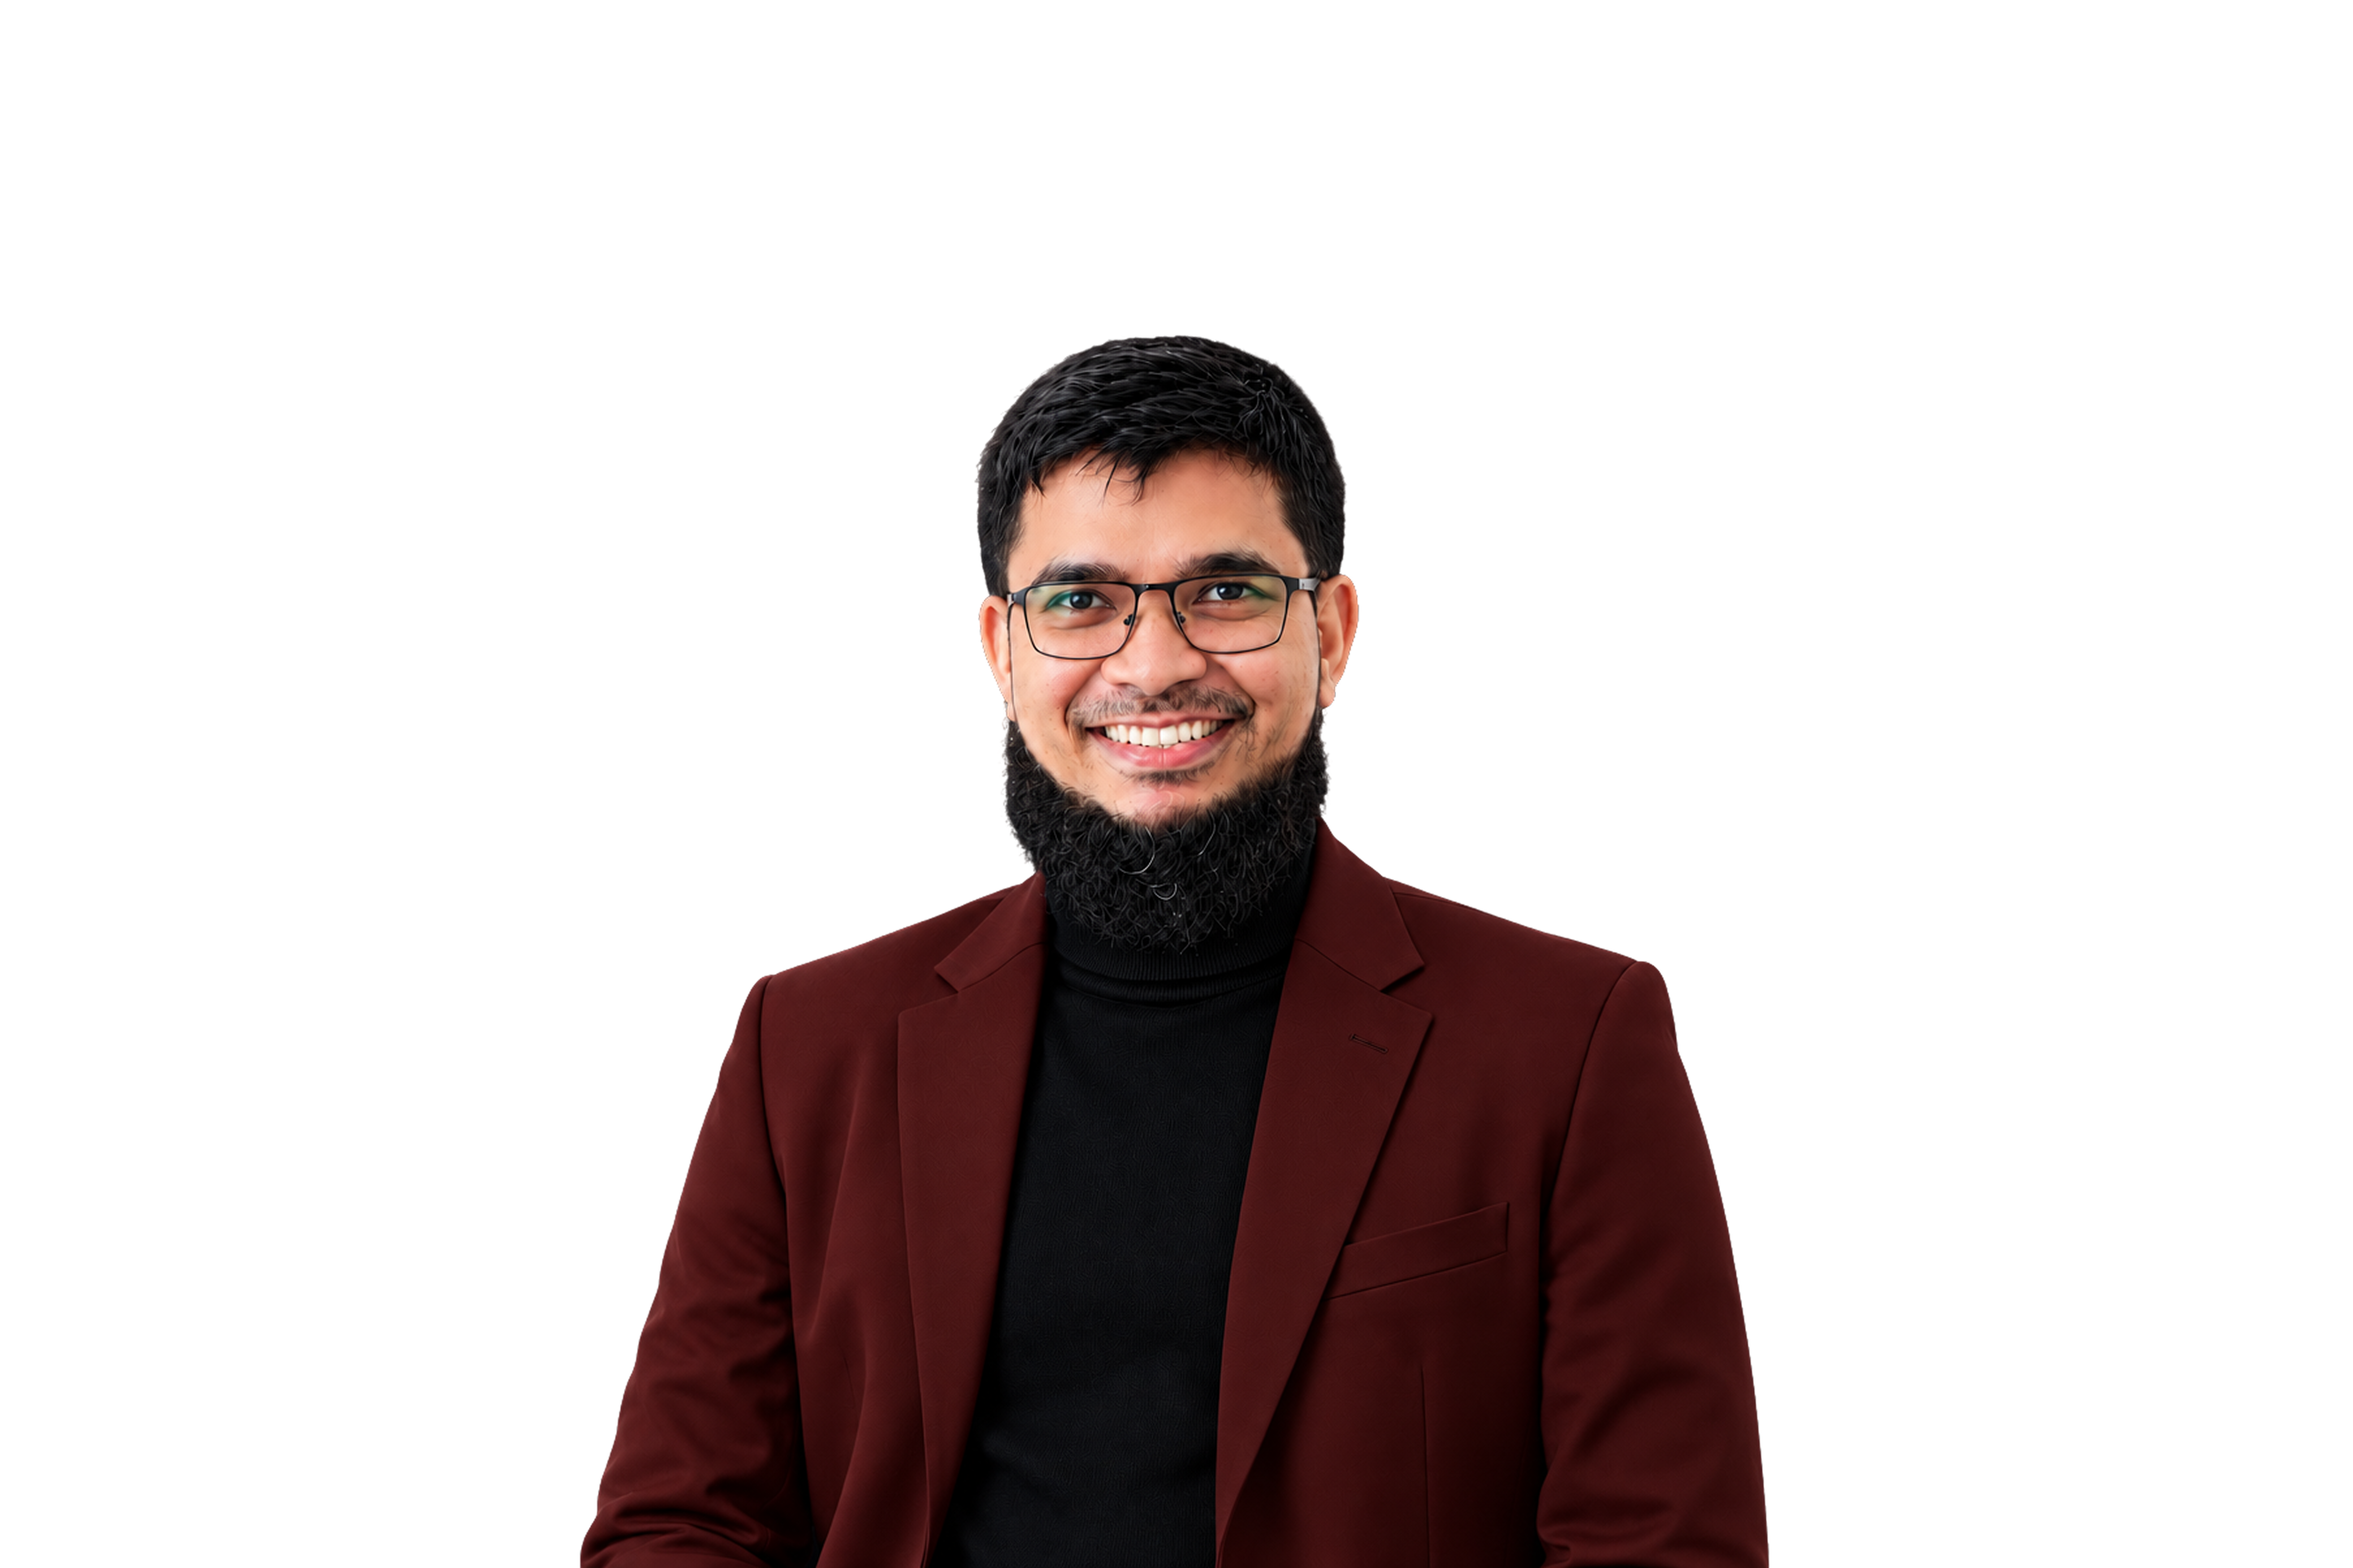
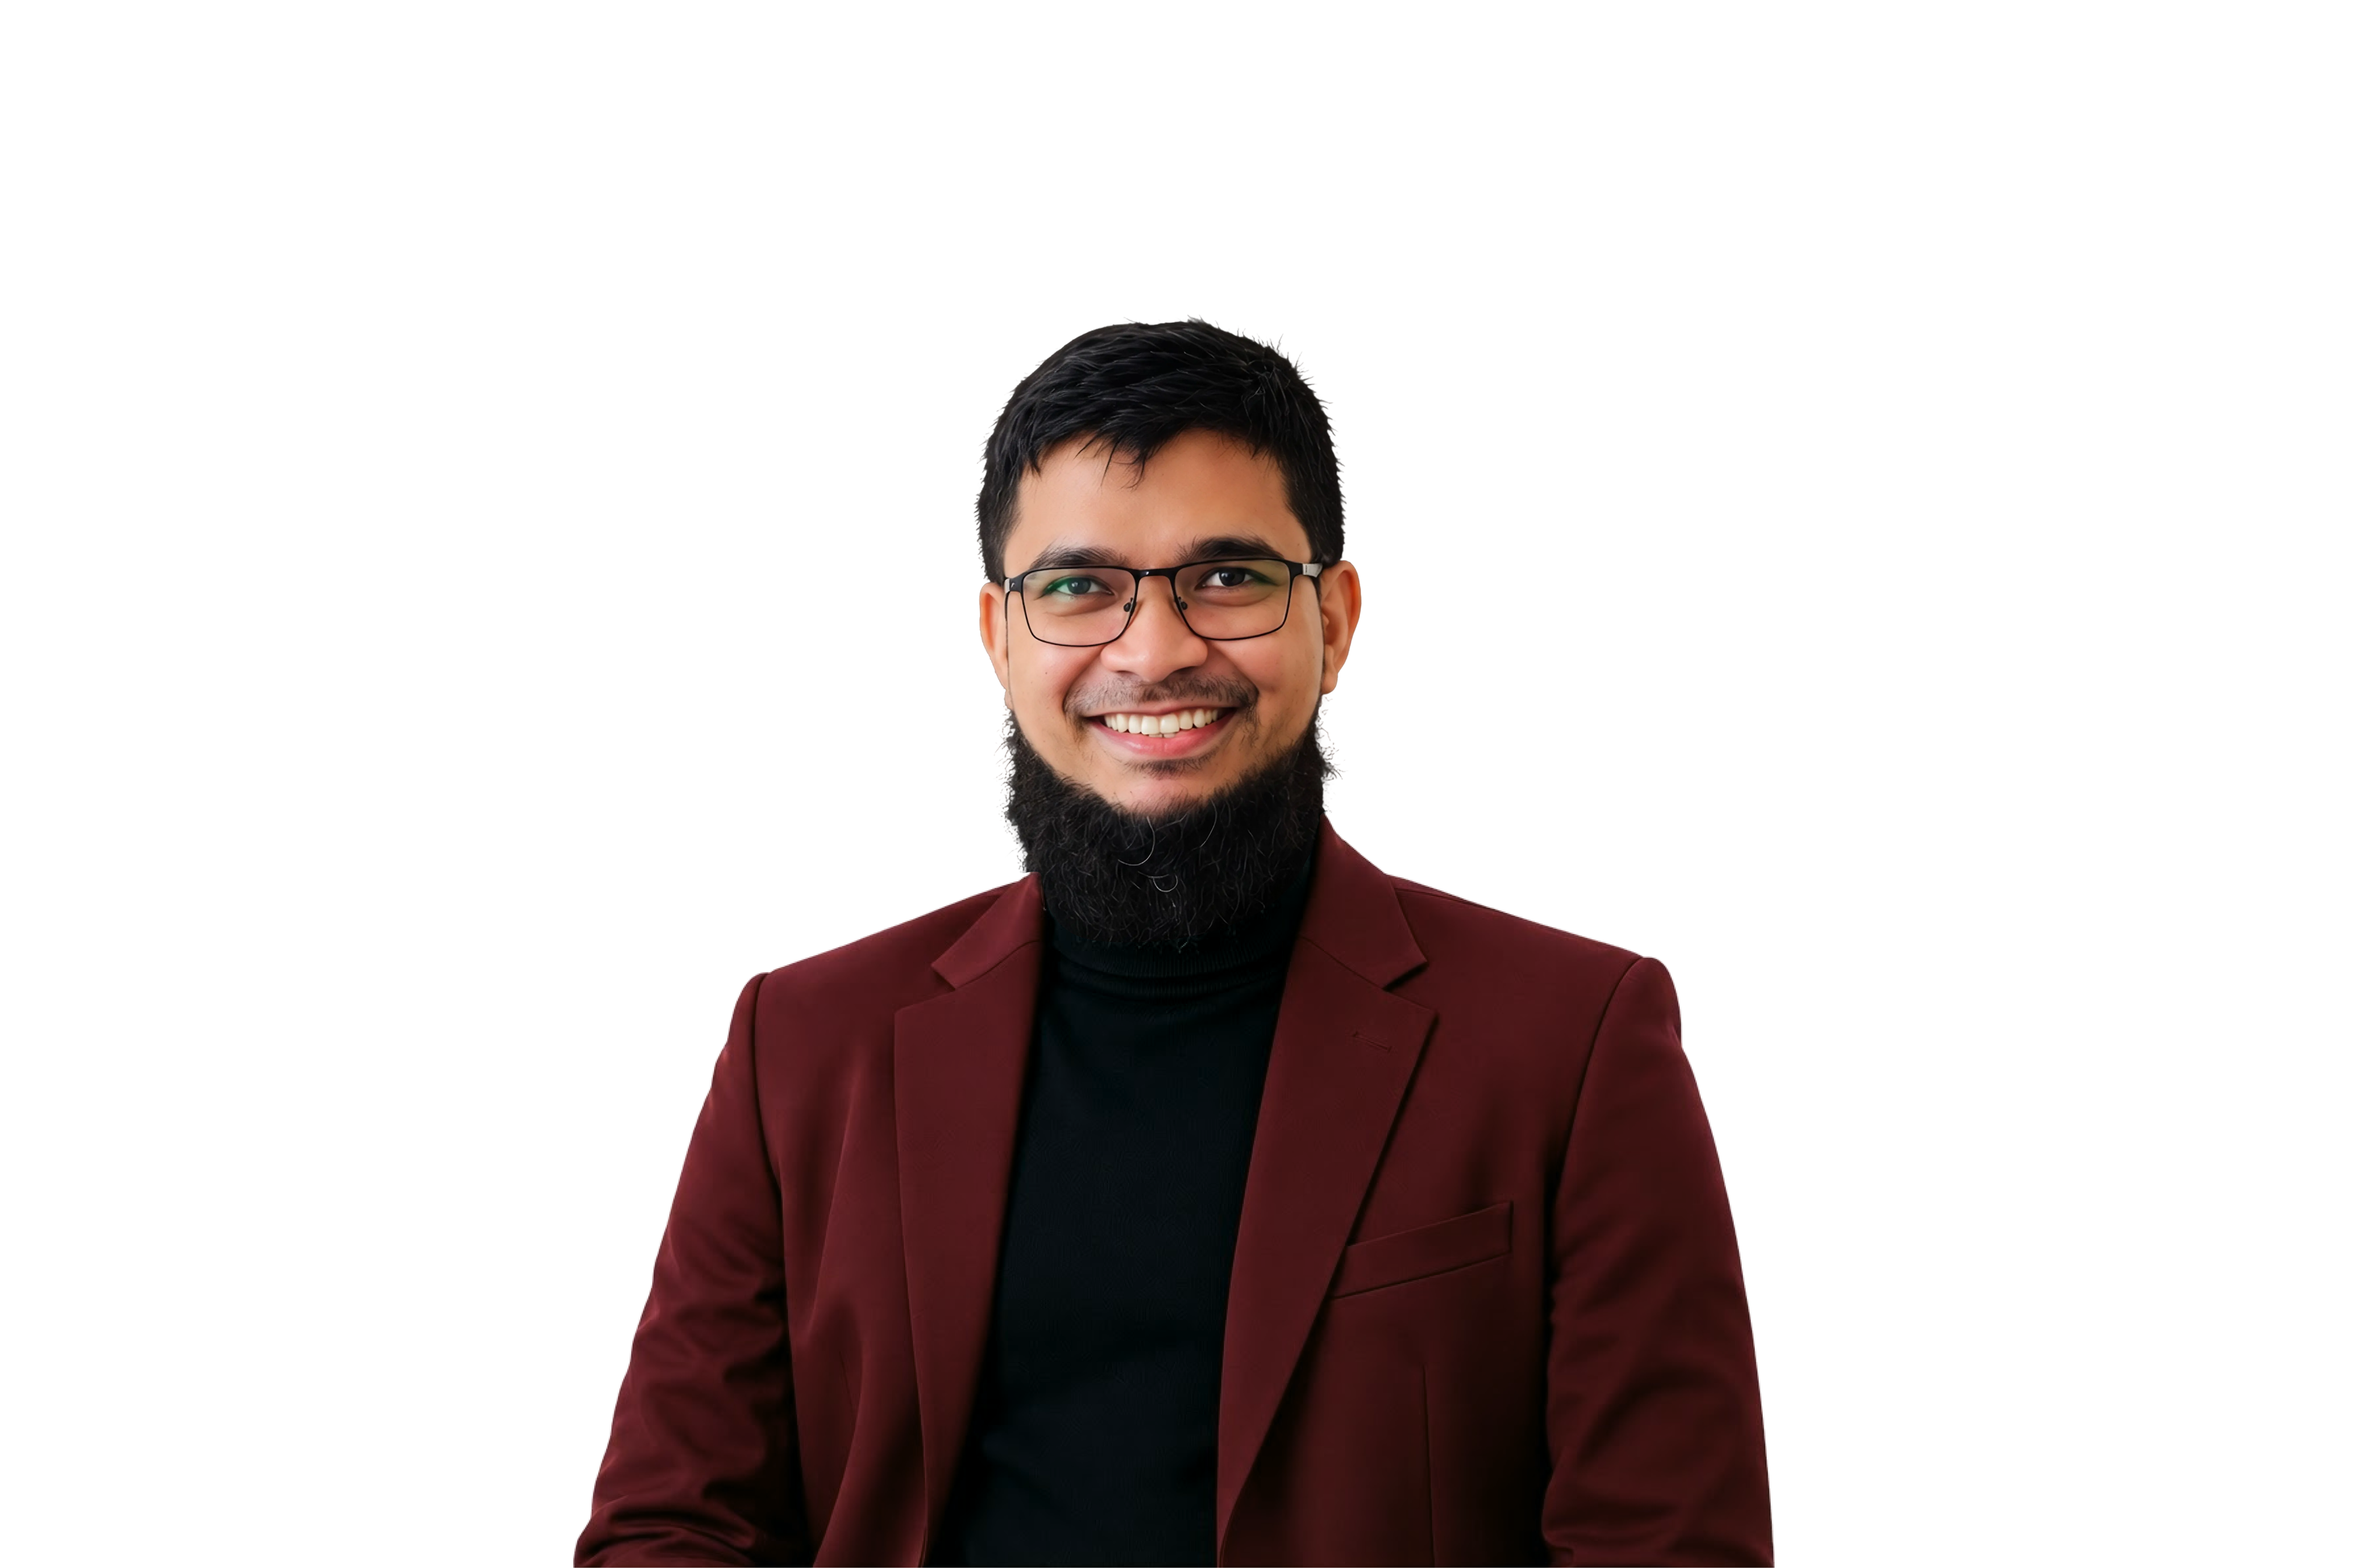
style: voices headline size + asset updates (owner)

diff --git a/index.html b/index.html
@@ -1015,7 +1015,7 @@ section{padding:var(--section) var(--gutter);border-bottom: 1px solid var(--line
   <section id="voices">
     <div class="voices-head">
       <p class="eyebrow" data-reveal><span class="dot"></span>Voices</p>
-      <h2 data-splitlines data-reveal-lines style="margin-top:1.5rem">What they say.</h2>
+      <h2 data-splitlines data-reveal-lines style="margin-top:1.5rem;font-size:var(--t-h1)">What they say.</h2>
     </div>
     <div class="voices-grid">
       <ul class="voice-list" id="voiceList">
